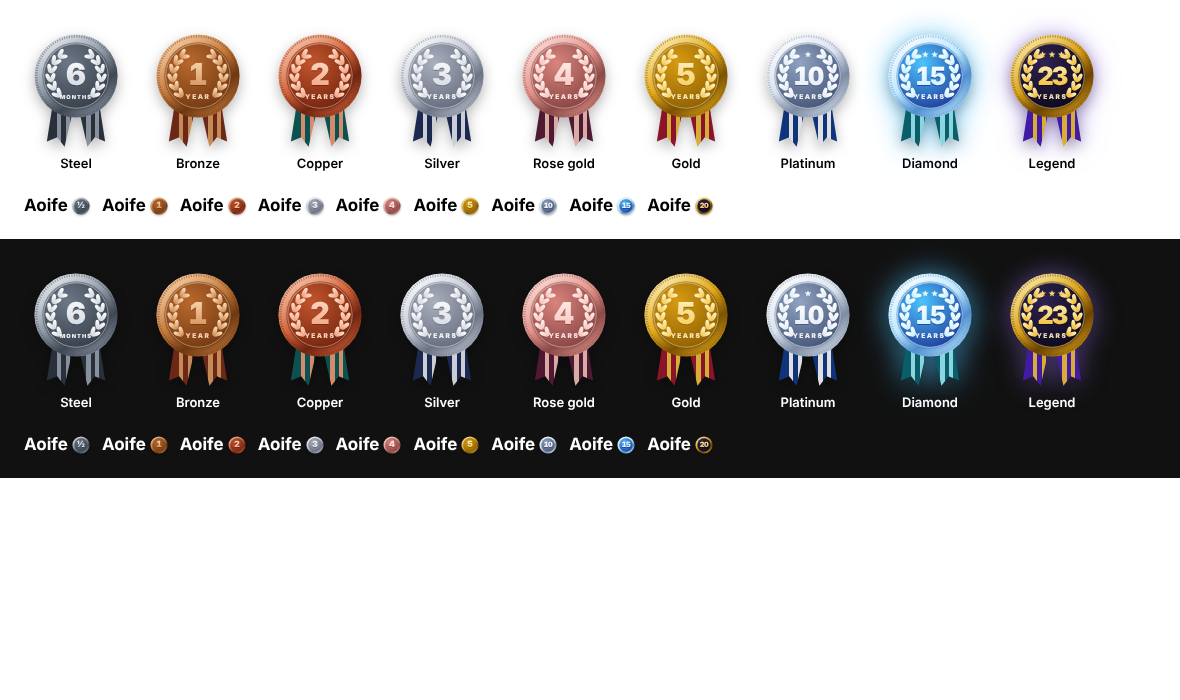
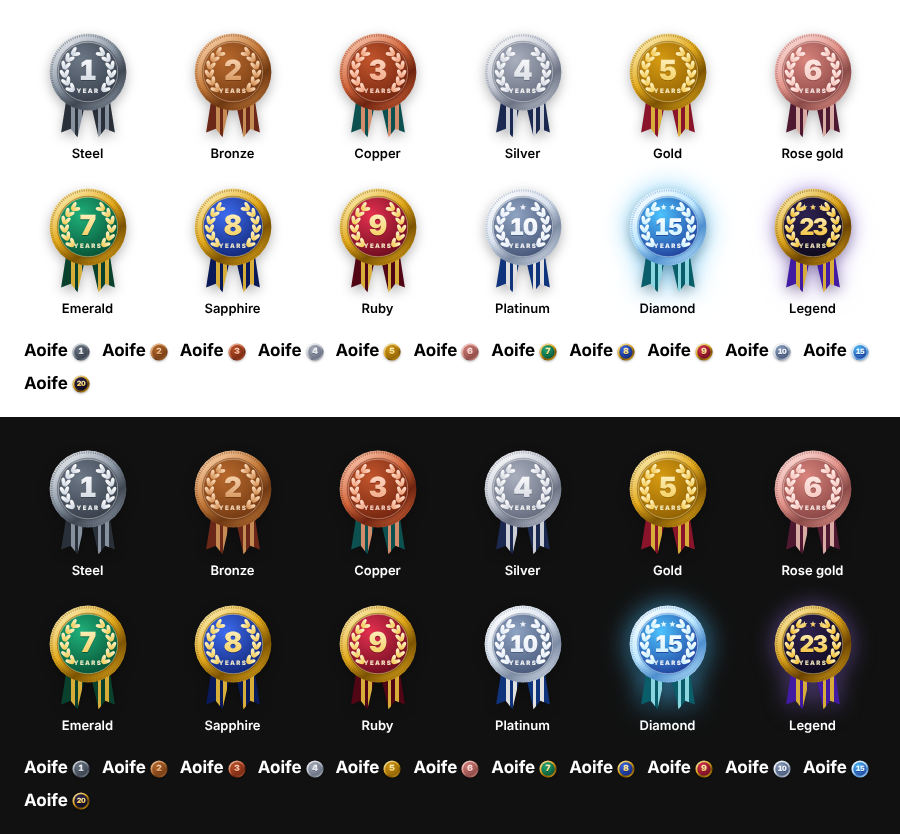
Service medals every year to 10, then 15 and 20
Steel, Bronze, Copper, Silver, Gold (5), Rose gold, Emerald, Sapphire, Ruby,
Platinum (10), Diamond (15), Legend (20+). No medal before one year.

Claude-Session: https://claude.ai/code/session_015uHrJNh1ddDKQESb7SLCMM

diff --git a/lib/service.ts b/lib/service.ts
@@ -1,8 +1,8 @@
 /**
  * Length of service: each person's start date (User.hireDate, set in
- * Admin > Users) earns them a service medal at 6 months, then every year up
- * to 5, then at 10, 15 and 20 years, each in a rarer metal. The early steps
- * are close together because many people stay a few years. Shown big on
+ * Admin > Users) earns them a service medal every year up to 10, then at 15
+ * and 20 years, each in a rarer metal or stone. The steps are yearly because
+ * many people stay a few years. Shown big on
  * their profile and small next to their name in the feed
  * (components/service-medal.tsx).
  */
@@ -12,8 +12,11 @@ export type ServiceTierKey =
   | "bronze"
   | "copper"
   | "silver"
-  | "rosegold"
   | "gold"
+  | "rosegold"
+  | "emerald"
+  | "sapphire"
+  | "ruby"
   | "platinum"
   | "diamond"
   | "legend";
@@ -29,12 +32,15 @@ export type ServiceTier = {
 };
 
 export const SERVICE_TIERS: readonly ServiceTier[] = [
-  { key: "steel", months: 6, name: "Steel", accent: "#6d7887" },
-  { key: "bronze", months: 12, name: "Bronze", accent: "#c47a3a" },
-  { key: "copper", months: 24, name: "Copper", accent: "#d0643a" },
-  { key: "silver", months: 36, name: "Silver", accent: "#8a93a8" },
-  { key: "rosegold", months: 48, name: "Rose gold", accent: "#d4837a" },
+  { key: "steel", months: 12, name: "Steel", accent: "#6d7887" },
+  { key: "bronze", months: 24, name: "Bronze", accent: "#c47a3a" },
+  { key: "copper", months: 36, name: "Copper", accent: "#d0643a" },
+  { key: "silver", months: 48, name: "Silver", accent: "#8a93a8" },
   { key: "gold", months: 60, name: "Gold", accent: "#e2a91c" },
+  { key: "rosegold", months: 72, name: "Rose gold", accent: "#d4837a" },
+  { key: "emerald", months: 84, name: "Emerald", accent: "#169a6a" },
+  { key: "sapphire", months: 96, name: "Sapphire", accent: "#2b4fc7" },
+  { key: "ruby", months: 108, name: "Ruby", accent: "#c4203f" },
   { key: "platinum", months: 120, name: "Platinum", accent: "#7d8ba3" },
   { key: "diamond", months: 180, name: "Diamond", accent: "#1f8fd6" },
   { key: "legend", months: 240, name: "Legend", accent: "#b98a12" },

diff --git a/tests/service.test.ts b/tests/service.test.ts
@@ -20,22 +20,27 @@ test("service counts whole months, the monthly anniversary included", () => {
   assert.equal(serviceMonths(null), null);
 });
 
-test("medals at 6 months, every year to 5, then 10, 15 and 20", () => {
-  assert.equal(serviceTier(5), null);
-  assert.equal(serviceTier(6)?.key, "steel");
-  assert.equal(serviceTier(12)?.key, "bronze");
-  assert.equal(serviceTier(24)?.key, "copper");
-  assert.equal(serviceTier(36)?.key, "silver");
-  assert.equal(serviceTier(48)?.key, "rosegold");
-  assert.equal(serviceTier(119)?.key, "gold");
+test("a medal every year to 10, then 15 and 20", () => {
+  assert.equal(serviceTier(11), null);
+  assert.equal(serviceTier(12)?.key, "steel");
+  assert.equal(serviceTier(24)?.key, "bronze");
+  assert.equal(serviceTier(36)?.key, "copper");
+  assert.equal(serviceTier(48)?.key, "silver");
+  assert.equal(serviceTier(60)?.key, "gold");
+  assert.equal(serviceTier(72)?.key, "rosegold");
+  assert.equal(serviceTier(84)?.key, "emerald");
+  assert.equal(serviceTier(96)?.key, "sapphire");
+  assert.equal(serviceTier(119)?.key, "ruby");
   assert.equal(serviceTier(120)?.key, "platinum");
+  assert.equal(serviceTier(179)?.key, "platinum");
   assert.equal(serviceTier(180)?.key, "diamond");
   assert.equal(serviceTier(400)?.key, "legend");
 });
 
 test("the next medal, when it arrives and how it reads", () => {
-  assert.equal(nextServiceTier(0)?.months, 6);
-  assert.equal(nextServiceTier(60)?.months, 120);
+  assert.equal(nextServiceTier(0)?.months, 12);
+  assert.equal(nextServiceTier(60)?.months, 72);
+  assert.equal(nextServiceTier(120)?.months, 180);
   assert.equal(nextServiceTier(240), null);
   assert.equal(anniversaryOf(d("2021-03-12"), 120).toISOString().slice(0, 10), "2031-03-12");
   assert.equal(anniversaryOf(d("2026-05-23"), 6).toISOString().slice(0, 10), "2026-11-23");

diff --git a/components/profile/service-honour.tsx b/components/profile/service-honour.tsx
@@ -11,11 +11,11 @@ import type { ProfileData } from "@/lib/profile";
 
 /**
  * Length of service on a profile: a plaque with their medal under the name
- * (from six months on), and in the Showcase the whole ladder of medals with
+ * (from one year on), and in the Showcase the whole ladder of medals with
  * the ones still to come greyed out and when the next one arrives.
  */
 
-/** The plaque under the name. Nothing before someone's first six months. */
+/** The plaque under the name. Nothing before someone's first year. */
 export function ServicePlaque({ service }: { service: NonNullable<ProfileData["service"]> }) {
   const tier = serviceTier(service.months);
   if (!tier) return null;
@@ -66,7 +66,7 @@ export function ServiceLadder({
 
   return (
     <div>
-      <ol className="grid grid-cols-5 gap-x-1 gap-y-3 sm:grid-cols-9">
+      <ol className="grid grid-cols-6 gap-x-1 gap-y-3 sm:grid-cols-12">
         {SERVICE_TIERS.map((t) => {
           const earned = service.months >= t.months;
           return (
@@ -75,7 +75,7 @@ export function ServiceLadder({
                 months={t.key === "legend" && earned ? service.months : t.months}
                 tier={t.key === "legend" && earned ? undefined : t}
                 locked={!earned}
-                size={50}
+                size={46}
               />
               <span className={earned ? "text-xs font-bold" : "text-muted text-xs"}>
                 {ladderLabel(t.months)}

diff --git a/app/globals.css b/app/globals.css
@@ -658,7 +658,7 @@
 /* ---------------------------------------------------------------------------
  * Service medals: years of service (components/service-medal.tsx). A struck
  * metal medal on a ribbon, unlike the holo hexagons, so it reads as an
- * honour. Gold and up catch the light every few seconds; Diamond and Legend
+ * honour. Gold (5 years) and up catch the light every few seconds; Diamond and Legend
  * also glow. Locked medals (not earned yet) are greyed out.
  * ------------------------------------------------------------------------- */
 .service-medal {
@@ -698,7 +698,7 @@
   }
 }
 @media (prefers-reduced-motion: no-preference) {
-  .service-medal:is([data-tier="gold"], [data-tier="platinum"], [data-tier="diamond"], [data-tier="legend"]):not(
+  .service-medal:not([data-tier="steel"], [data-tier="bronze"], [data-tier="copper"], [data-tier="silver"]):not(
       [data-mini],
       [data-locked]
     )

diff --git a/components/service-medal.tsx b/components/service-medal.tsx
@@ -62,6 +62,27 @@ const METALS: Record<ServiceTierKey, Metal> = {
     ribbon: ["#5b1d3a", "#f6c3bb"],
     glow: "#d4837a",
   },
+  emerald: {
+    rim: ["#fff4c2", "#e2a91c", "#7c5302"],
+    face: ["#1fb07a", "#04452c"],
+    relief: ["#fff6cf", "#f3c94f"],
+    ribbon: ["#0b4a33", "#f5c542"],
+    glow: "#169a6a",
+  },
+  sapphire: {
+    rim: ["#fff4c2", "#e2a91c", "#7c5302"],
+    face: ["#3d6bf0", "#0c1d63"],
+    relief: ["#fff6cf", "#f3c94f"],
+    ribbon: ["#0c1d63", "#f5c542"],
+    glow: "#2b4fc7",
+  },
+  ruby: {
+    rim: ["#fff4c2", "#e2a91c", "#7c5302"],
+    face: ["#e3304f", "#5c0718"],
+    relief: ["#fff6cf", "#f3c94f"],
+    ribbon: ["#5c0718", "#f5c542"],
+    glow: "#c4203f",
+  },
   gold: {
     rim: ["#fff4c2", "#e2a91c", "#7c5302"],
     face: ["#d79b12", "#875900"],

diff --git a/components/admin/users-manager.tsx b/components/admin/users-manager.tsx
@@ -347,7 +347,7 @@ function UserFormDialog({
                 defaultValue={editing?.hireDate ?? ""}
               />
               <p className="text-muted text-xs">
-                Earns their service medals: 6 months, every year to 5, then 10, 15 and 20 years.
+                Earns their service medals: every year up to 10, then 15 and 20 years.
               </p>
             </div>
             <div className="space-y-1.5">

diff --git a/components/feed/recognition-card.tsx b/components/feed/recognition-card.tsx
@@ -180,7 +180,7 @@ function BannerHero({ card }: { card: FeedCard }) {
   );
 }
 
-/** A small service medal after someone's name, from six months on. */
+/** A small service medal after someone's name, from one year on. */
 function NameMedal({ months }: { months: number | null }) {
   if (!months) return null;
   return <ServiceMedal months={months} size={18} className="ml-1 -translate-y-px" />;
